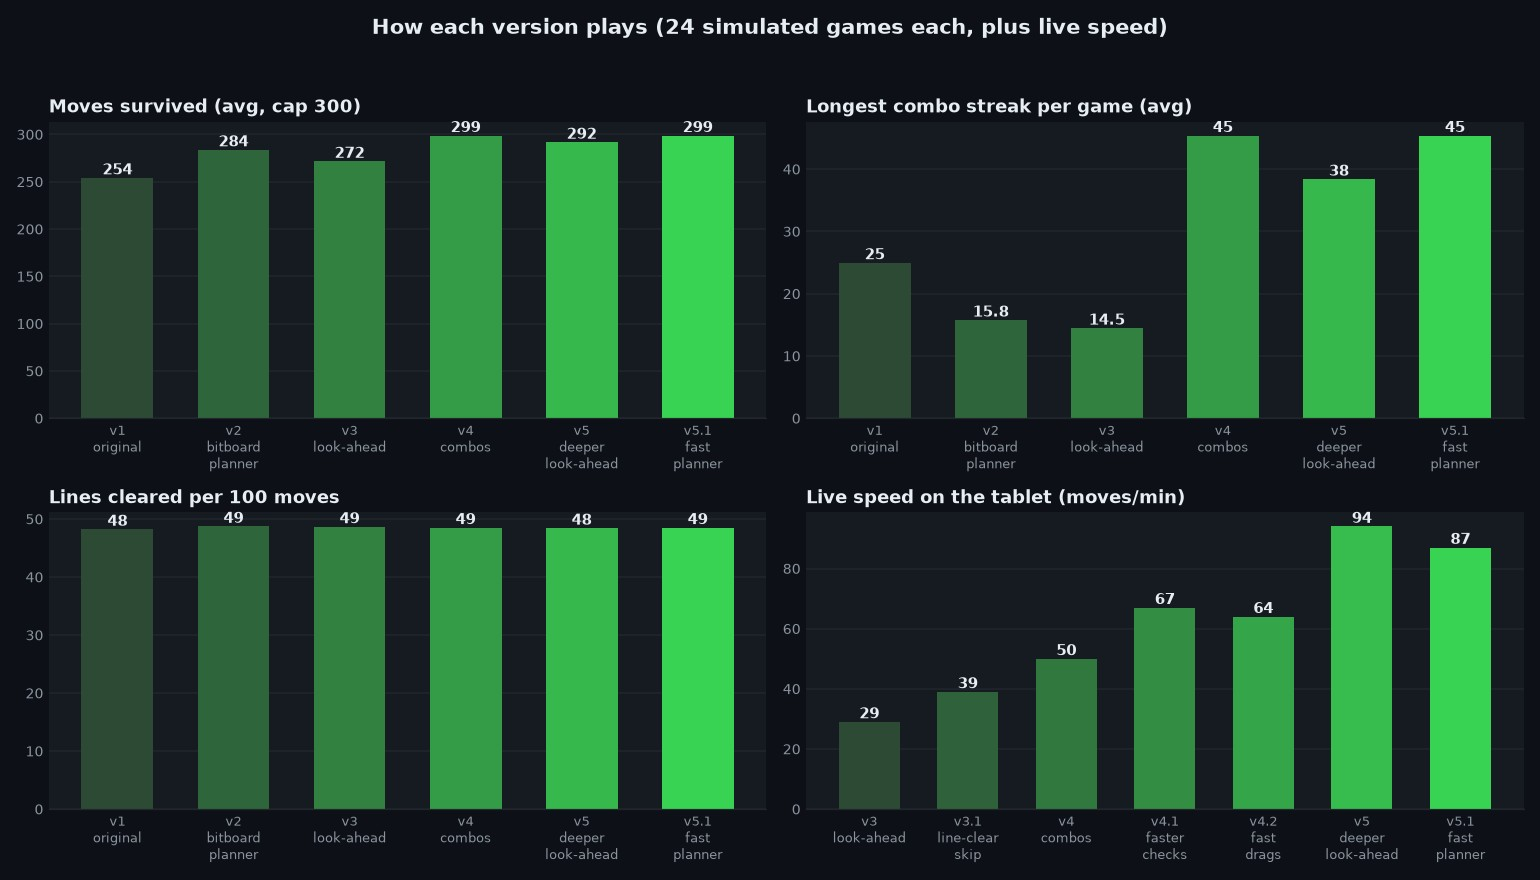
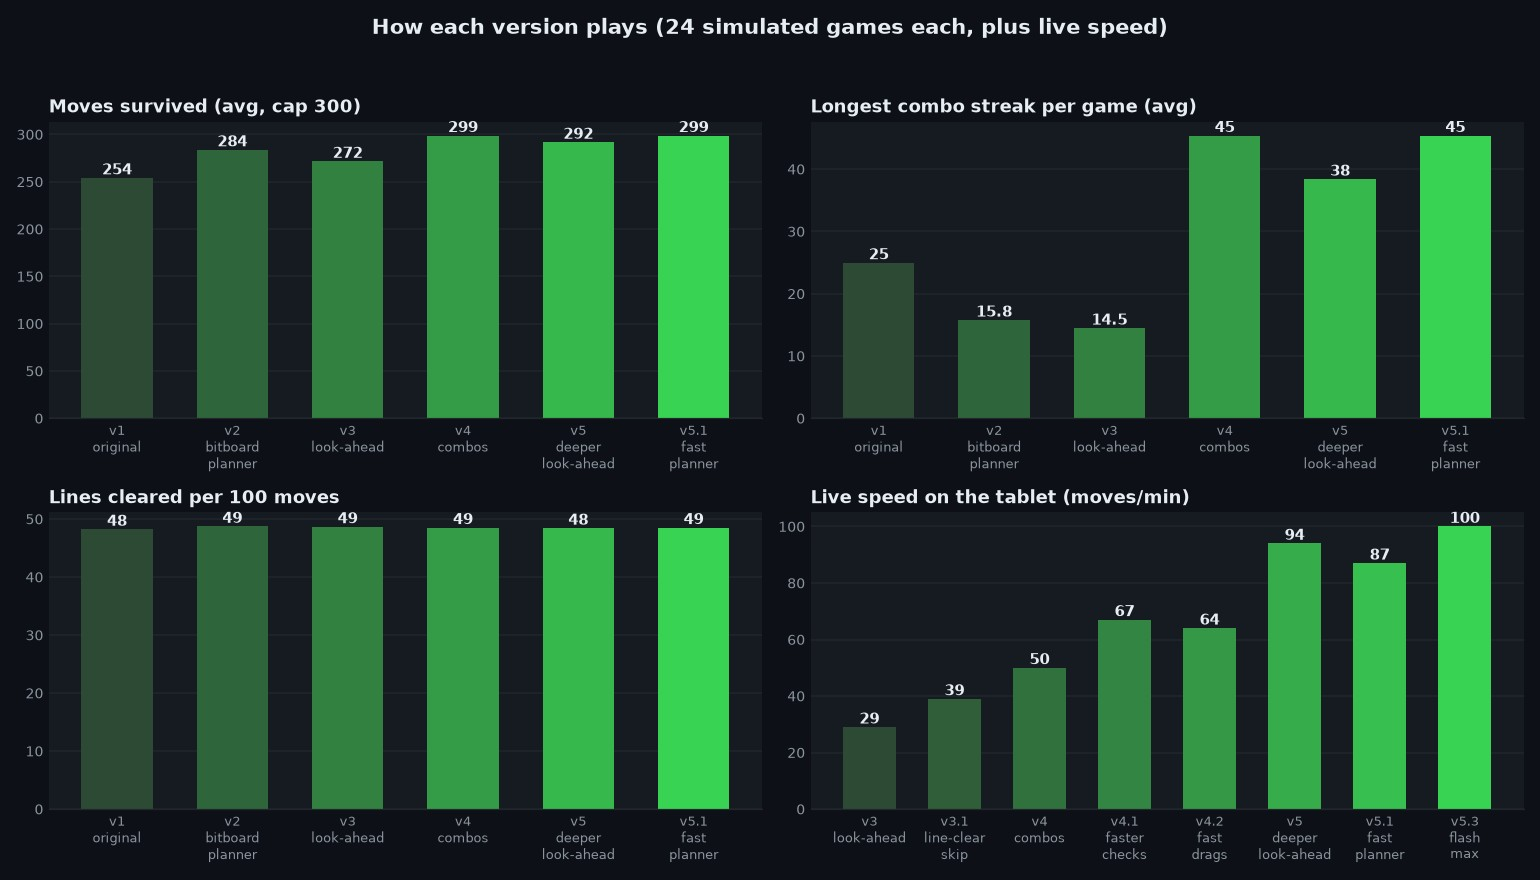
Release v5.3-exp-flash-max: ~100 moves/min
- No check screenshot after each tray: the screenshot that reads the next
  tray also confirms the board (small tolerance for clear sparkles).
- Learned wait after a tray's last piece, so one screenshot usually finds
  the newly dealt tray.
- 120 ms drags; a missed drop shows up as the same position again, and that
  tray is then dragged slowly and checked.
- "No legal moves" on the expected board re-reads the real board first.
- Same planner as v5.1 (look-ahead kept: without it games ended after ~250
  moves).
- start-bot.ps1 -Version <name> runs a version from versions/<name>/.
- CLAUDE.md: ask (and suggest a name) before starting any new version.

100 moves/min over 302 live moves, median tray 1.3 s. Known risk: the
bot's picture of the board can drift without per-tray checks.

diff --git a/bot.py b/bot.py
@@ -1,3 +1,6 @@
+# v5.3-exp-flash-max: v5.1's planner (look-ahead kept: without it games ended after
+# ~250 moves), no per-tray check screenshot (the next tray's screenshot confirms the
+# board), 120 ms drags, learned wait for the next tray.
 import argparse, gzip, queue, struct, subprocess, threading, time, sys, re, xml.etree.ElementTree as ET
 from functools import lru_cache
 import cv2
@@ -160,10 +163,11 @@ def visible_board(im,hint_empty=0):
     visible=sum(1<<i for i in flat)
     return read_board(im,hint_empty&visible),visible
 
-def shows(im,board,ignore=0):
-    """Does the screen show this board (ignoring covered and still-animating cells)?"""
+def shows(im,board,ignore=0,tol=0):
+    """Does the screen show this board (ignoring covered and still-animating cells)?
+    tol: how many visible cells may differ (clear sparkles spill onto neighbours)."""
     b,visible=visible_board(im,FULL&~board&~ignore)
-    return b is not None and not (b^board)&visible&~ignore
+    return b is not None and ((b^board)&visible&~ignore).bit_count()<=tol
 
 def read_board(im,hint_empty=0):
     """Empty cells all share one colour; everything else is a block.
@@ -414,7 +418,7 @@ def save_unknown(im):
 def main():
     ap=argparse.ArgumentParser()
     ap.add_argument('--play',action='store_true'); ap.add_argument('--max-moves',type=int,default=1000)
-    ap.add_argument('--pickup-y',type=int,default=PICKUP_Y); ap.add_argument('--swipe-ms',type=int,default=150)
+    ap.add_argument('--pickup-y',type=int,default=PICKUP_Y); ap.add_argument('--swipe-ms',type=int,default=120)
     args=ap.parse_args()
     corrections={}; turn=0; unknown_count=0; failed_board=None; failed_moves=set()
     plan_seq=[]; im=None; started=time.time(); stuck_since=None; tray_errors=0
@@ -424,6 +428,15 @@ def main():
     carry=None  # tray pieces still to place after an unchecked move
     pieces_known=False
     predicted=None  # board the last checked move should have produced
+    # The game deals the next tray a moment after the last piece lands. Checking the
+    # board right away means a second screenshot for the new pieces; waiting deal_wait
+    # first lets one screenshot do both. Learned: longer after a miss, a bit shorter
+    # after a hit, so about 4 in 5 trays need just one screenshot.
+    deal_wait=.2
+    probe=False  # next tray read tells whether deal_wait was long enough
+    # A missed drop leaves its piece in the tray, so the same position comes back.
+    # Then that tray is dragged slowly and checked; a second repeat avoids the spot.
+    last_state=None; last_first=None; repeat=0
     slow_from=float('inf')  # finger distance from which drags use SAFE_MS (learned from misses)
     def drag_ms(sx,sy,dx,dy):
         return SAFE_MS if args.swipe_ms<SAFE_MS and ((dx-sx)**2+(dy-sy)**2)**.5>=slow_from else args.swipe_ms
@@ -439,7 +452,8 @@ def main():
                 # Known board (lines may still be clearing, text may cover part of it):
                 # just confirm the visible cells agree.
                 clears=[(m,t) for m,t in clears if t>time.time()-2.5]
-                if shows(im,trusted,sum(m for m,_ in clears)): board=trusted
+                recent=any(t>time.time()-1.5 for _,t in clears)
+                if shows(im,trusted,sum(m for m,_ in clears),2 if recent else 0): board=trusted
                 else: trusted=None
         if board is None and not is_board(im):
             if not args.play: print('Not on the game board.'); return
@@ -460,9 +474,13 @@ def main():
                 if tray_errors==20: save_unknown(im)
                 if tray_errors%10==3: update_layout()  # the game may have been resized
                 if tray_errors>3: log(str(e),'Waiting for screen to settle.')
+                if probe: probe=False; deal_wait=min(.6,deal_wait+.04)
                 im=None; continue
             tray_errors=0
-            if not pieces: log('Waiting for pieces or game-over screen.'); time.sleep(.1); im=None; plan_seq=[]; continue
+            if probe:
+                probe=False; dealt=len(pieces)==3 and all(at_rest(q) for q in pieces)
+                deal_wait=max(0.,deal_wait-.01) if dealt else min(.6,deal_wait+.04)
+            if not pieces: log('Waiting for pieces or game-over screen.'); im=None; plan_seq=[]; continue
             by_slot={p['slot']:p for p in pieces}
         if board!=failed_board: failed_board=board; failed_moves.clear()
         # Keep following the tray's plan while the board matches it; otherwise re-plan.
@@ -481,13 +499,23 @@ def main():
                 except RuntimeError: same=False
                 if not same: im=im2; continue
                 pieces=read_pieces(im2); by_slot={p['slot']:p for p in pieces}
+            state=(board,tuple(sorted(tuple(p['cells']) for p in pieces)))
+            repeat=repeat+1 if state==last_state else 0; last_state=state
+            if repeat>=2 and last_first: failed_moves.add(last_first)
+            if repeat: log(f'Same position again ({repeat}x): a drop missed; dragging slowly.')
             t=time.time()
             seq=planner.plan(board,[(p['slot'],p['cells']) for p in pieces],failed_moves,seed=turn,since=since)
+            last_first=seq[0][:3] if seq else None
             plan_seq=[]; prev=board
             for slot,x,y,nb in seq: plan_seq.append((slot,x,y,nb,prev,tuple(by_slot[slot]['cells']))); prev=nb
             log(f'Planned {len(seq)} of {len(pieces)} pieces in {time.time()-t:.2f}s')
         turn+=1; print(f'\nMove {turn}  ({turn/max(1e-9,time.time()-started)*60:.0f} moves/min)',flush=True); show(board,pieces)
         if not plan_seq:
+            if trusted is not None or predicted is not None:
+                # Nothing fits on the board the bot expected: that picture may have
+                # drifted (no check screenshots), so read the real board first.
+                log('No legal moves on the expected board; reading the real one.')
+                im=None; trusted=None; predicted=None; continue
             if failed_moves:
                 log('No untried placements left; re-reading the screen.'); failed_moves.clear(); time.sleep(1)
             else:
@@ -513,14 +541,22 @@ def main():
         dy=sy+(target_y-args.pickup_y)/GAIN+adjust_y
         placed=sum(1<<((y+b)*8+x+a) for a,b in p['cells'])
         cleared=(board|placed)&~expected
-        if plan_seq:
-            # More pieces of this tray follow: swipe now and check the whole tray after
-            # its last piece. A miss shows up there and the bot re-reads and re-plans.
-            t0=time.time(); drag_piece(sx,sy,dx,dy,drag_ms(sx,sy,dx,dy))
+        careful=repeat>=1
+        if plan_seq or not careful:
+            # Swipe without a check: the next tray's screenshot confirms the board, and
+            # a missed drop shows up there as a piece still in the tray.
+            t0=time.time(); drag_piece(sx,sy,dx,dy,RETRY_MS if careful else drag_ms(sx,sy,dx,dy))
             if cleared: clears.append((cleared,t0))
             since=0 if cleared else since+1
-            trusted=expected; carry=[q for q in pieces if q['slot']!=slot]
-            log(f'swipe {time.time()-t0:.2f}s, checked after the tray'); continue
+            trusted=expected
+            if plan_seq:
+                carry=[q for q in pieces if q['slot']!=slot]
+                log(f'swipe {time.time()-t0:.2f}s'); continue
+            predicted=expected
+            if len(pieces)==1:  # the game deals a new tray now
+                time.sleep(deal_wait); probe=True
+            log(f'swipe {time.time()-t0:.2f}s, last of tray, deal wait {deal_wait:.2f}s')
+            im=None; continue
         actual=board
         # A missed drop is usually a fast drag the game didn't keep up with, so the first
         # retry is the same target dragged slowly; later retries shift it by one cell.
@@ -533,10 +569,17 @@ def main():
             if y+height==8 and retry_y>0: continue
             t0=time.time(); drag_piece(sx,sy,dx+retry_x,dy+retry_y,ms)
             clears=[(m,t) for m,t in clears if t>t0-2.5]
+            last_of_tray=len(pieces)==1
+            if last_of_tray: time.sleep(deal_wait)
             t1=time.time(); im,actual,early=settle(board,expected,placed,sum(m for m,_ in clears))
+            if last_of_tray and actual==expected:
+                try: dealt=len(read_pieces(im))==3 and all(at_rest(q) for q in read_pieces(im))
+                except RuntimeError: dealt=False
+                deal_wait=max(0.,deal_wait-.01) if dealt else min(.6,deal_wait+.04)
             trusted=actual if early else None
             if actual==expected and cleared: clears.append((cleared,t1))
-            log(f'swipe {t1-t0:.2f}s, check {time.time()-t1:.2f}s',''.join(TRACE)+(' (lines still clearing)' if early else '')); TRACE.clear()
+            log(f'swipe {t1-t0:.2f}s, check {time.time()-t1:.2f}s',''.join(TRACE)+(' (lines still clearing)' if early else '')
+                +(f' deal wait {deal_wait:.2f}s' if last_of_tray else '')); TRACE.clear()
             if actual is None: log('Screen changed; checking state.'); break
             if actual!=board: break
             if ms<SAFE_MS:
@@ -544,7 +587,7 @@ def main():
                 log(f'Fast drag missed; drags from {slow_from:.0f} px now use {SAFE_MS} ms.')
             log('Retrying unplaced piece.')
         if actual is None: im=None; plan_seq=[]; trusted=None; continue
-        predicted=expected if actual==expected else None
+        predicted=expected if actual==expected else actual
         if actual==expected: since=0 if cleared else since+1
         if actual==board:
             failed_moves.add((slot,x,y)); plan_seq=[]
@@ -559,7 +602,7 @@ def main():
                 corrections[key]=(cx_,cy_)
                 log(f'Piece landed at ({ax+1}, {ay+1}); recalibrated.')
             else:
-                log('Could not verify placement; re-reading.'); time.sleep(.5); im=None
+                log('Board differs from the plan; playing on from what the screen shows.')
 
 def pick_device():
     global SLOW

diff --git a/bench.py b/bench.py
@@ -33,7 +33,8 @@ VERSIONS = [
 LIVE_SPEED = {'v1 original': None, 'v2 bitboard planner': None, 'v3 look-ahead': 29,
               'v3.1 line-clear skip': 39, 'v4 combos': 50,
               'v4.1 faster checks': 67, 'v4.2 fast drags': 64,
-              'v5 deeper look-ahead': 94, 'v5.1 fast planner': 87}
+              'v5 deeper look-ahead': 94, 'v5.1 fast planner': 87,
+              'v5.3 flash max': 100}
 
 WINDOW = current.COMBO_WINDOW
 

diff --git a/CLAUDE.md b/CLAUDE.md
@@ -17,6 +17,7 @@ Plays Block Blast (Classic) on a USB-connected Android tablet (2880x1800 landsca
 - If "no legal moves" lasts 30 s without a result screen, the screen is misread: it is saved and normal recovery runs. Any exception is logged and the loop restarts after `adb wait-for-device`.
 - New tray pieces animate in; the bot only plans from two consecutive screenshots that agree.
 - All coordinates assume the game fills the full 1800 px height. With the tablet's 3-button navigation bar on, the app gets 1682 px and the game shrinks around x=1440; `update_layout` reads `mAppBounds` from `dumpsys window displays` (at startup and on recovery), `capture` scales screenshots back, and `tap`/`drag_piece` scale input with `to_screen`.
+- Released version: **v5.3-exp-flash-max** (~100 moves/min). Each tray's pieces are swiped back to back with no check screenshot; the screenshot that reads the next tray also confirms the board (`shows` with a 2-cell tolerance for clear sparkles). It waits a learned `deal_wait` after a tray's last piece so one screenshot usually finds the new tray. A missed drop shows up as the same position again (`repeat`): that tray is dragged slowly and checked. Known risk: without per-tray checks the bot's picture of the board can drift; one game ended at 406,629 with the real board fuller than the bot thought. If "no legal moves" comes from the expected board, it re-reads the real board first.
 - Speed (v4.1, ~67 moves/min): swipes go through one long-lived `adb shell` (`SHELL`), so they cost ~1 ms of overhead instead of ~50 ms. Combo pop-up text covers some cells; `visible_board`/`shows` compare only the flat (visible) cells, so these frames aren't treated as off-board (`e` in the trace = matched with some cells hidden). There are no fixed sleeps on the normal path; a screenshot (~0.4 s) is the only wait. Swipes are 150 ms (`--swipe-ms`). A full new tray at rest (`at_rest`, `REST_Y`/`REST_DX`) on the predicted board is planned from one screenshot. Two screenshots can't overlap: the tablet takes them one at a time (tried, slower). Tray readings that aren't a real piece shape (`KNOWN_SHAPES`, e.g. wood grain adding cells) are retried at other thresholds. The user chose this over 200 ms knowingly: 150 ms sometimes misses a drop (retried, then recalibrated), 200 ms didn't, but 150 is noticeably faster. Don't change it back without asking.
 - Planner speed: `fast_eval`/`drop` use bit operations (no loops over positions); the look-ahead (`_survival`) runs in worker processes (`planner.use_workers`, started in `bot.py` `__main__` only with `--play`). ~0.08 s per tray with 32 future trays x 14 candidates. Windows needs the `__main__` guard for workers.
 - Missed drops: two unchanged screenshots = unplaced (not a 3 s timeout). Retry order: same target at `RETRY_MS`, then one-cell shifts. A fast miss sets `slow_from`: drags at least that long use `SAFE_MS`.
@@ -32,6 +33,8 @@ Plays Block Blast (Classic) on a USB-connected Android tablet (2880x1800 landsca
 - `adbwifi.py` picks USB if plugged in, else wireless debugging (one-time `python adbwifi.py pair`). The bot waits for the tablet to come back after errors (e.g. flat battery). Screenshot timeouts are 3x longer over Wi-Fi (`SLOW`). Shared copy of `../arrows bot/adbwifi.py`; keep in sync.
 
 ## Working on it
+- **Always ask before starting a new version.** When the user asks for a new revision of the bot or algorithm, first ask which version it should be, suggesting a name that follows the history (e.g. "v5.4-flash", with the reason: bigger change = new minor number, small tweak = v5.3.1), and wait for their answer. Never pick the name or start building without that confirmation.
+- **New versions go in their own folder.** Copy the current `bot.py`, `planner.py` and `adbwifi.py` into `versions/<name>/` and make the changes there; the root files stay the released version. Run one with `.\start-bot.ps1 -Version <name>` (logs, PID and saved screens stay in the root). Benchmark it like any version. "Release" = copy it to the root, delete its folder, commit, tag it (`git tag <name>`) and push with the tag. Delete a version folder only when the user says so.
 - **Every new version must update the benchmark**: add it to `VERSIONS` in `bench.py` (label + commit; the working tree is `None` until committed, then pin the commit), put its measured live moves/min (from `bot.log`, 100+ moves) in `LIVE_SPEED` (a speed-only version with the same planner goes only in `LIVE_SPEED`), rerun `python bench.py`, add a row to the README's version table, and commit `benchmark.jpg` and `bench-results.json` with the change.
 - The game is often live: don't stop a running bot unless the user says so. Code changes only take effect after a restart.
 - Run live tests detached (`start-bot.ps1`); a foreground run dies when the tool call is interrupted.

diff --git a/README.md b/README.md
@@ -21,6 +21,7 @@ Every planner version plays the same simulated games (`python bench.py`); live s
 | v4.2 fast drags | 150 ms drags, new trays planned from one screenshot, wood-theme tray fix. Measured late in a ~400k game, where planning and line clears take longer, so it isn't directly comparable with v4.1's early-game 67. |
 | v5 deeper look-ahead | Planning ~6x faster (bit tricks + look-ahead in worker processes), so it can sample 32 future trays instead of 16. Missed fast drops are spotted in ~0.8 s and retried with a slow drag; after a miss, long drags slow down. On 20 longer games (600 moves) it survived longer (503 vs 466 moves); on the chart's 24 games it was slightly behind v4 — about even overall. Live speed measured early in a new game. |
 | v5.1 fast planner | Back to the lighter look-ahead (16 future trays; the deeper one wasn't clearly better) with work spread evenly over the CPU cores: planning ~0.03 s per tray. Also handles the blue bevelled theme and size changes between menu and board. Live 87/min was measured over 865 moves (a longer run than v5's 302 early-game moves), median tray 100/min. |
+| v5.3 flash max | Same planner as v5.1. No check screenshot after each tray (the next tray's screenshot confirms the board), learned wait for the game to deal the next tray, 120 ms drags. 100 moves/min over 302 live moves (median tray 1.3 s). Trade-off: its picture of the board can drift without the per-tray check; one game ended earlier than it should have because of that. |
 
 ## How it works
 
@@ -51,7 +52,9 @@ powershell -NoProfile -ExecutionPolicy Bypass -File .\start-bot.ps1
 powershell -NoProfile -ExecutionPolicy Bypass -File .\stop-bot.ps1
 ```
 
-Options: `--swipe-ms` (drag duration, default 300) and `--pickup-y` (calibration of where a lifted piece appears).
+Experimental versions live in `versions/<name>/` and run with `.\start-bot.ps1 -Version <name>`.
+
+Options: `--swipe-ms` (drag duration, default 120) and `--pickup-y` (calibration of where a lifted piece appears).
 
 ## Testing the planner offline
 
